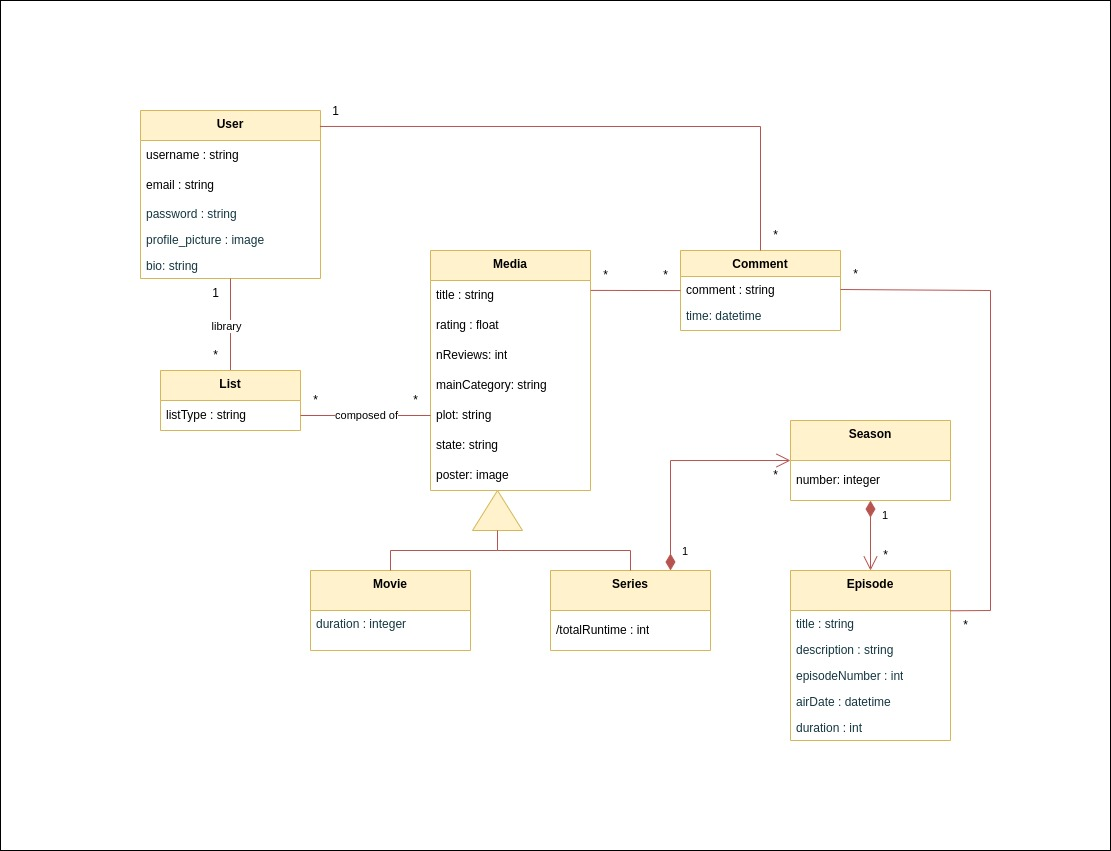
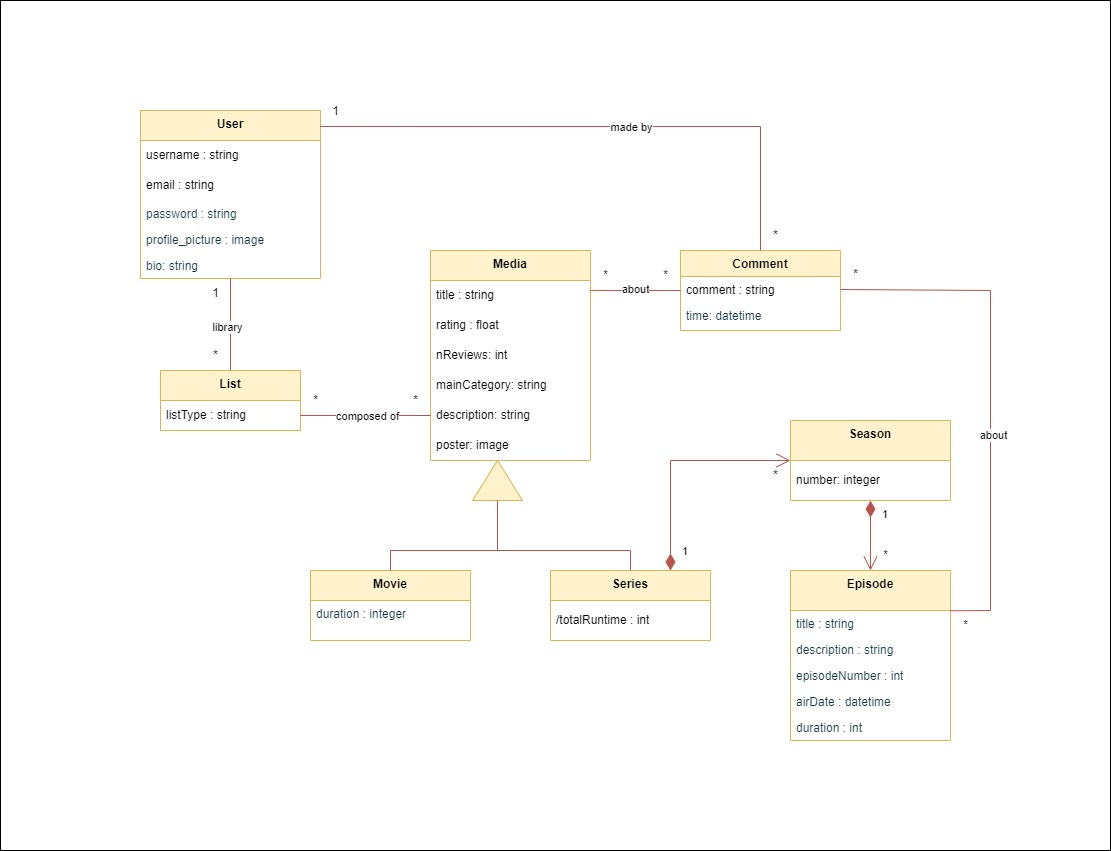
Updated development report

diff --git a/docs/requirements.md b/docs/requirements.md
@@ -4,10 +4,10 @@
 
 This project consists in an application that provides its users with the possibility of making commentaries on their favorite (or least favorite) movies or series. It also allows users to organize movies or series in lists as they wish. Therefore, we decided to model our application in the following way:
 
-- **User:** this class has some information about a specific user, such as username, profile picture, email, etc.
-- **Media:** media can be either a movie or a series, and both share some similar attributes, such as title, rating, main category, plot, etc.
-- **List:** This is defined as a set of media objects that a user can connect between each other and save for his convenience, also naming it. Each user will always have 2 special types of lists, want to watch and watched.
-- **Comment:** This is a comment on a certain media. Can also be towards an exact episode of a series instead of the general whole series.
+- **User:** this class holds information about a specific user, such as username, profile picture, email, etc.
+- **Media:** can be either a movie or a series, and both share some similar attributes, such as title, rating, main category, plot, etc.
+- **List:** This is defined as a set of media objects that a user can connect between each other and save for his convenience, naming it. Each user will always have 2 special types of lists: want to watch and watched.
+- **Comment:** This is a comment on a certain media. Can also be about an exact episode of a series instead of the general whole series.
 
 
 <br><br>

diff --git a/README.md b/README.md
@@ -8,7 +8,7 @@
 - Luís Filipe Moura Oliveira da Silveira Contreiras - up202108742
 
 # Pocket Movies
-
+## Development Report
 Welcome to the documentation pages of Pocket Movies
 
 You can find here details about the product, from a high-level vision to low-level implementation decisions, a kind of Software Development Report, organized by discipline (as of Rational Unified Process):
@@ -16,7 +16,7 @@ You can find here details about the product, from a high-level vision to low-lev
     * [Product Vision](docs/ProductVision.md)
     * Elevator Pitch
 - Requirements
-    * User stories (present in GitHub issues)
+    * User stories (present in GitHub issues - label user story)
     * [Domain model](docs/requirements.md)
 - Architecture and Design
     * [Logical architecture](docs/ArchitectureAndDesign.md)

diff --git a/docs/ArchitectureAndDesign.md b/docs/ArchitectureAndDesign.md
@@ -2,7 +2,7 @@
 
 ## Logical Architecture
 
-This project is based on an <b>MVC</b> architectural pattern. The user communicates with the pocket movie UI which in turn will get all its data through the database logic. Finally, the database logic is in charge of getting of getting all the needed information from the <b>IMDB API</b> or the <b>Google Firebase</b> database.  
+This project is based on an <b>MVC</b> architectural pattern. The user communicates with the pocket movie UI which in turn will get all its data through the database logic. Finally, the database logic is in charge of getting all the needed information from the <b>IMDB API</b> or the <b>Google Firebase</b> database.  
 
 <div justify="center">
   <img src="../images/logical-arch.jpg"/>

diff --git a/docs/ProductVision.md b/docs/ProductVision.md
@@ -1,12 +1,7 @@
 # Product Vision
 
 ## Vision Statement
-Share your ideas on movies and shows with friends
-
 Pocket movies makes it easy to share your ideas on movies and series and track your progress.
-
-Pocket movies makes it easy to track your progress while watching movies and series and to share your ideas on them.
-
 
 ### Main Features
 - Searching for movies and series
